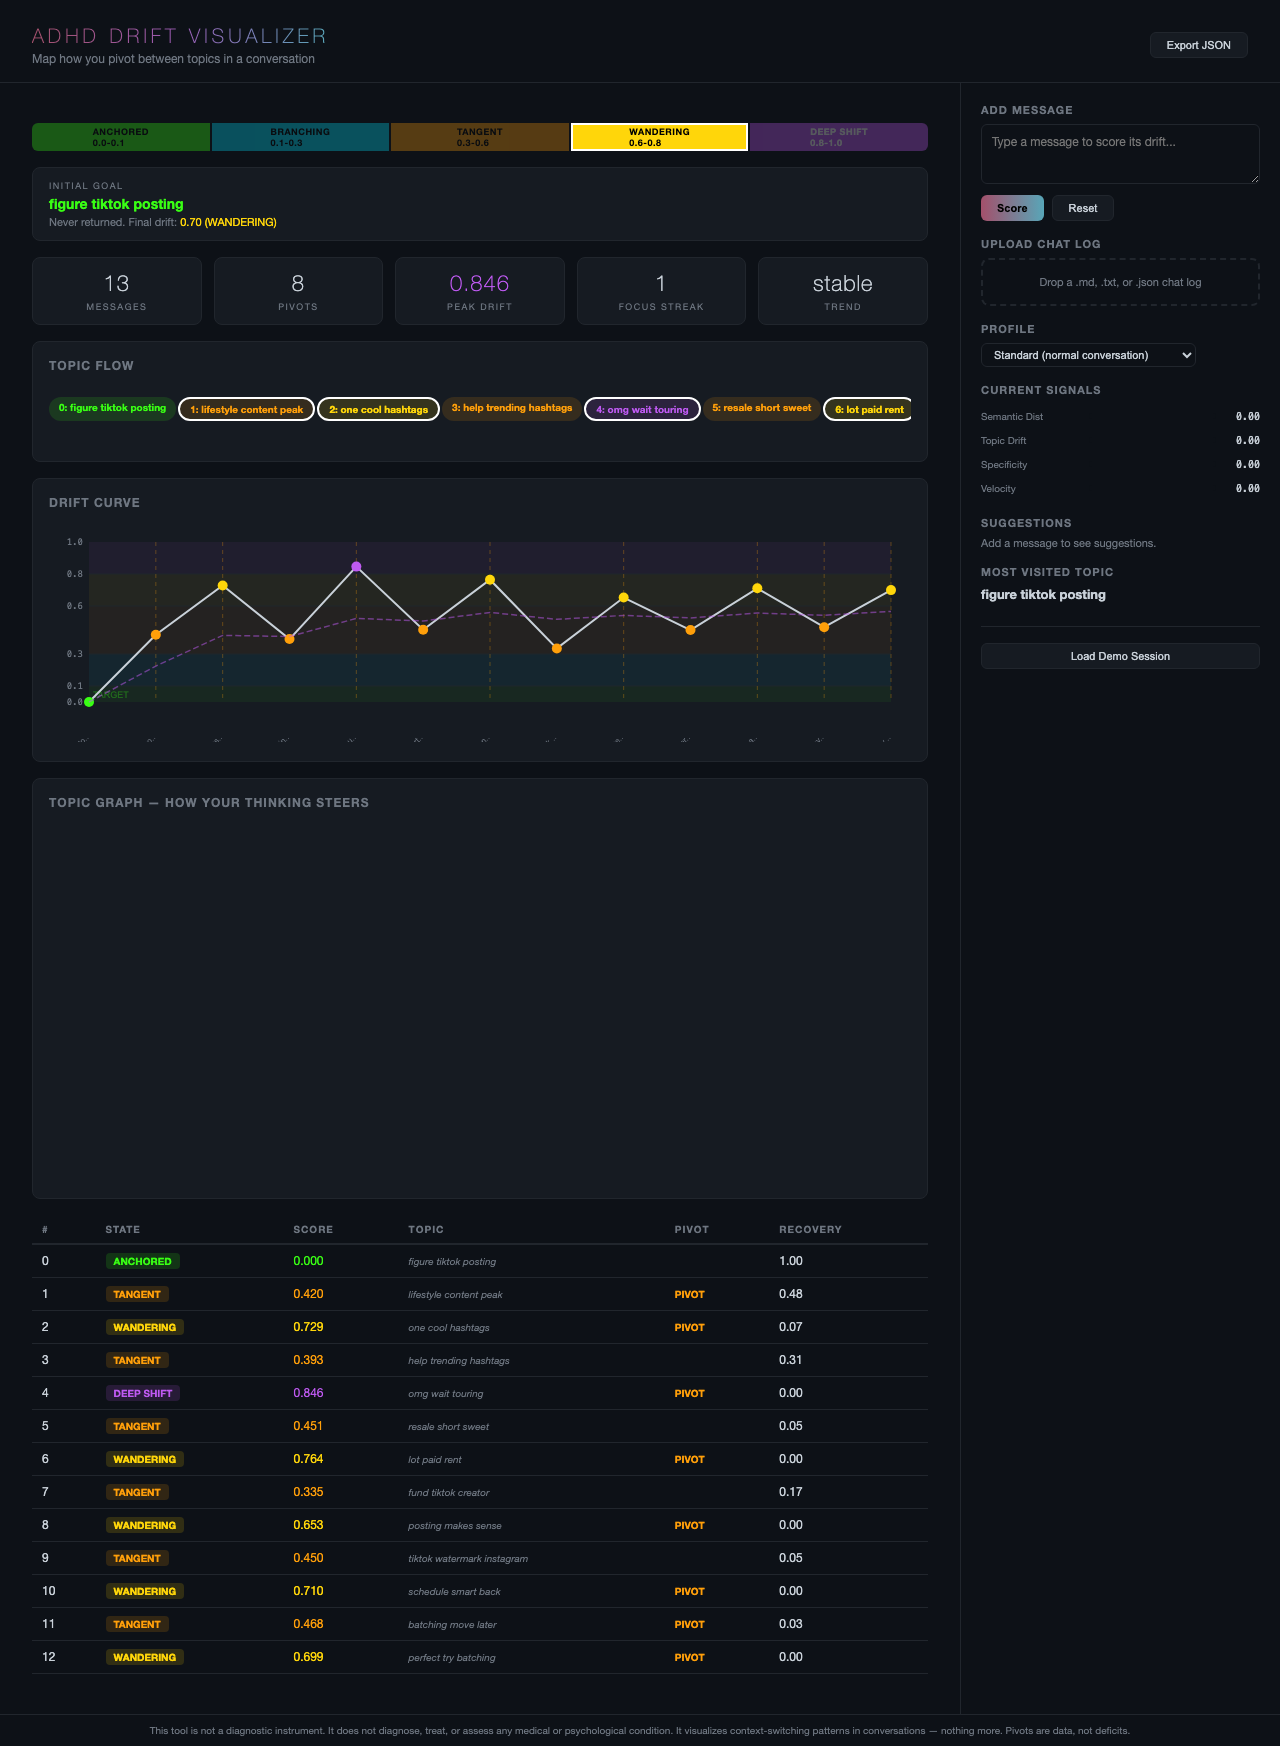
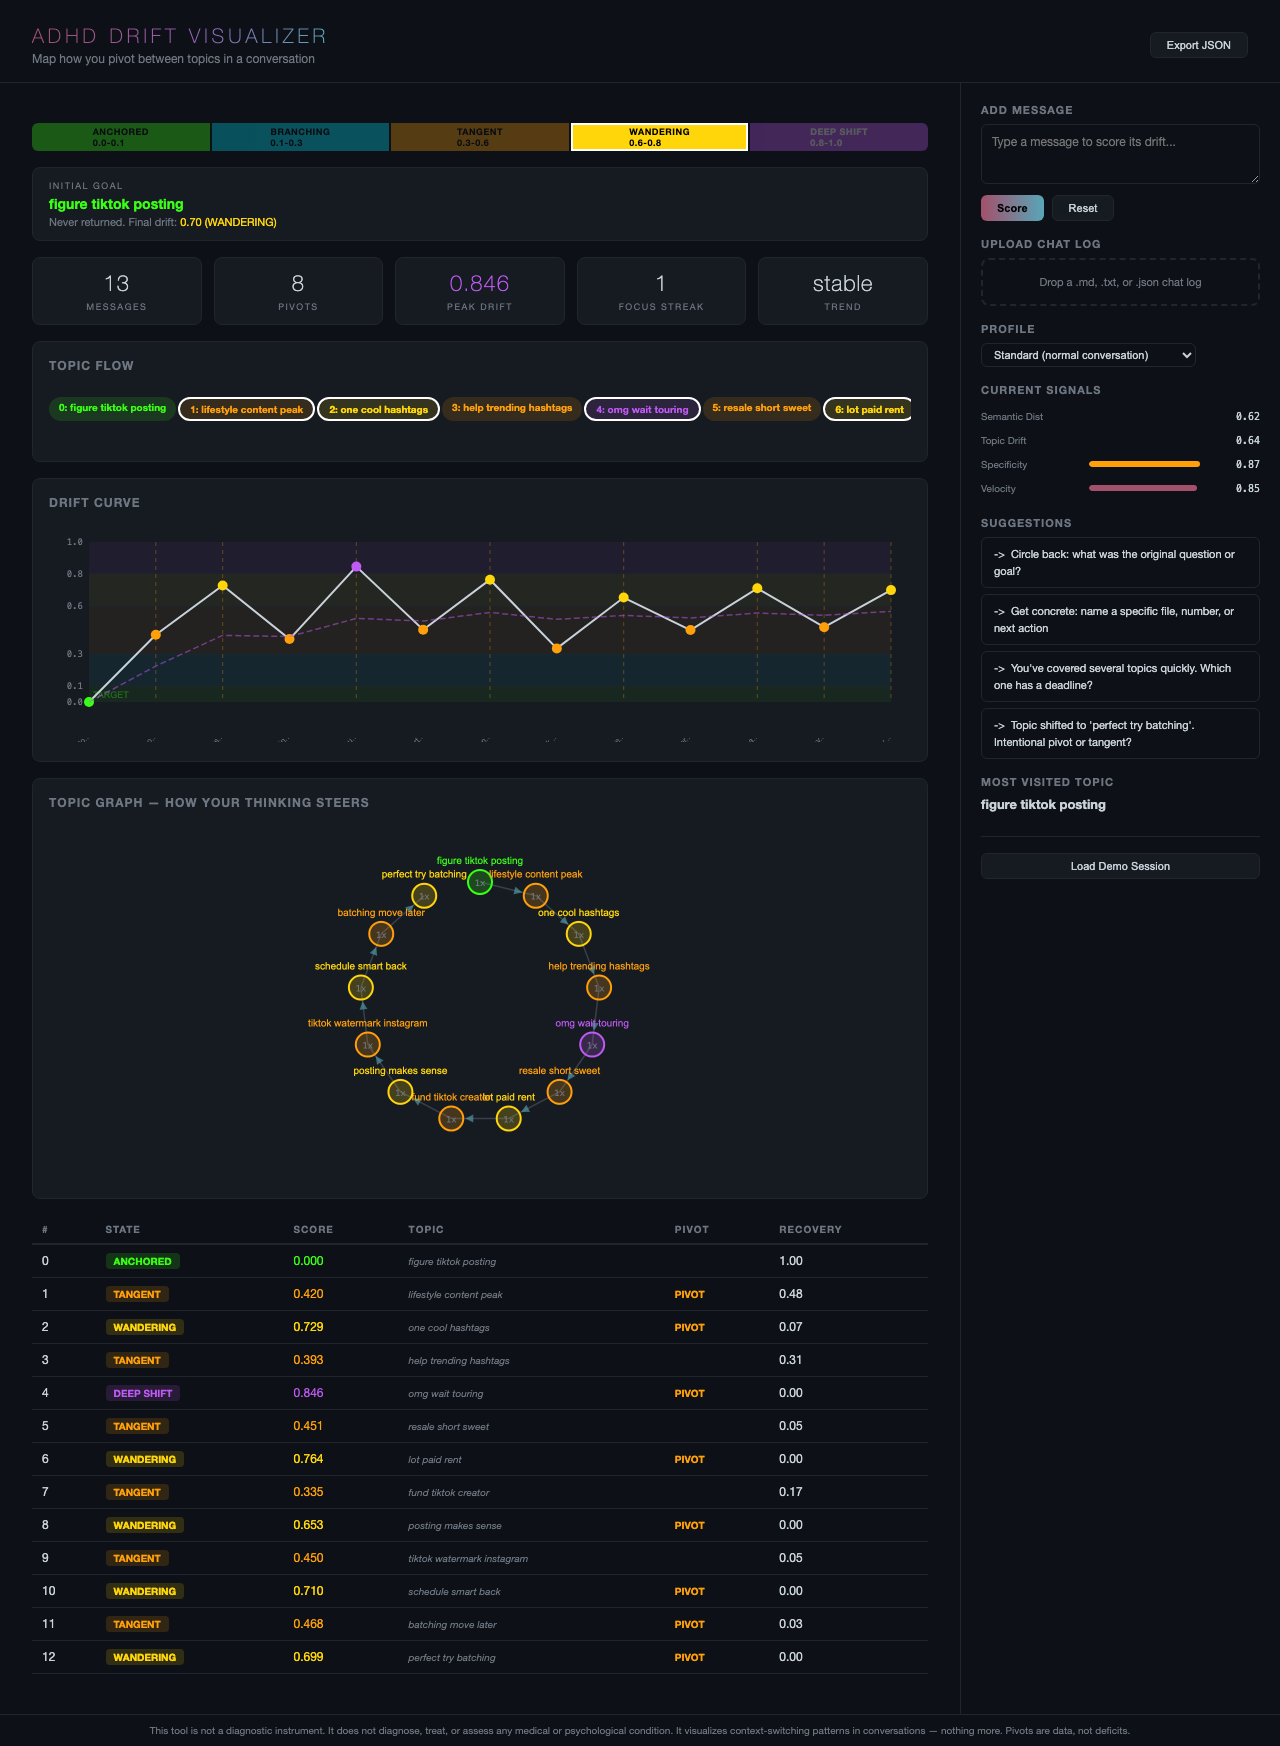
Add 2D canvas fallback for topic graph when WebGL unavailable
WebGL 3D graph (Three.js) renders in real browsers. For environments
without WebGL (headless, sandboxed), falls back to a 2D canvas
force-layout with directional arrows, visit counts, and color coding.

Changed region(s): [[0.75, 0.3093, 0.9375, 0.4639], [0.25, 0.4948, 0.5, 0.6495], [0.875, 0.2474, 0.9375, 0.2784]]

diff --git a/ui/dashboard.html b/ui/dashboard.html
@@ -664,36 +664,120 @@ function buildTopicGraph() {
     container.innerHTML = '';
   }
 
-  // Build 3D force graph
-  topicGraph = ForceGraph3D()(container)
-    .backgroundColor('#0d1117')
-    .width(container.clientWidth)
-    .height(360)
-    .graphData({ nodes, links })
-    // Nodes
-    .nodeLabel(n => `<div style="background:#161b22;padding:4px 8px;border-radius:4px;border:1px solid #21262d;font-size:11px;color:#c9d1d9;font-family:sans-serif;"><strong>${n.name}</strong><br>Visits: ${n.val}<br>Peak: ${CLASS_NAMES[n.classification] || n.classification}</div>`)
-    .nodeColor(n => n.color)
-    .nodeVal(n => n.val * 3)
-    .nodeOpacity(0.9)
-    // Links
-    .linkWidth(l => Math.max(1, l.value * 1.5))
-    .linkColor(() => 'rgba(110, 118, 129, 0.4)')
-    .linkDirectionalArrowLength(4)
-    .linkDirectionalArrowRelPos(1)
-    .linkDirectionalParticles(l => l.value)
-    .linkDirectionalParticleWidth(2)
-    .linkDirectionalParticleColor(() => '#58a6b8')
-    // Camera
-    .cameraPosition({ z: 200 })
-    // Node text
-    .nodeThreeObjectExtend(true)
-    .nodeThreeObject(node => {
-      const sprite = new SpriteText(node.name);
-      sprite.color = node.color;
-      sprite.textHeight = 4;
-      sprite.position.y = 8;
-      return sprite;
-    });
+  // Try 3D (WebGL), fall back to 2D canvas
+  try {
+    const testCanvas = document.createElement('canvas');
+    const gl = testCanvas.getContext('webgl2') || testCanvas.getContext('webgl');
+    if (!gl) throw new Error('No WebGL');
+
+    topicGraph = ForceGraph3D()(container)
+      .backgroundColor('#0d1117')
+      .width(container.clientWidth)
+      .height(360)
+      .graphData({ nodes, links })
+      .nodeLabel(n => `<div style="background:#161b22;padding:4px 8px;border-radius:4px;border:1px solid #21262d;font-size:11px;color:#c9d1d9;font-family:sans-serif;"><strong>${n.name}</strong><br>Visits: ${n.val}<br>Peak: ${CLASS_NAMES[n.classification] || n.classification}</div>`)
+      .nodeColor(n => n.color)
+      .nodeVal(n => n.val * 3)
+      .nodeOpacity(0.9)
+      .linkWidth(l => Math.max(1, l.value * 1.5))
+      .linkColor(() => 'rgba(110, 118, 129, 0.4)')
+      .linkDirectionalArrowLength(4)
+      .linkDirectionalArrowRelPos(1)
+      .linkDirectionalParticles(l => l.value)
+      .linkDirectionalParticleWidth(2)
+      .linkDirectionalParticleColor(() => '#58a6b8')
+      .cameraPosition({ z: 200 })
+      .nodeThreeObjectExtend(true)
+      .nodeThreeObject(node => {
+        const sprite = new SpriteText(node.name);
+        sprite.color = node.color;
+        sprite.textHeight = 4;
+        sprite.position.y = 8;
+        return sprite;
+      });
+  } catch (e) {
+    // 2D canvas fallback
+    draw2DGraph(container, nodes, links);
+  }
+}
+
+function draw2DGraph(container, nodes, links) {
+  container.innerHTML = '';
+  const canvas = document.createElement('canvas');
+  canvas.width = container.clientWidth * 2;
+  canvas.height = 360 * 2;
+  canvas.style.width = '100%';
+  canvas.style.height = '360px';
+  container.appendChild(canvas);
+  const ctx = canvas.getContext('2d');
+  ctx.scale(2, 2);
+  const W = container.clientWidth;
+  const H = 360;
+
+  // Simple force layout: place nodes in a circle, then nudge
+  const cx = W / 2, cy = H / 2, radius = Math.min(cx, cy) - 60;
+  nodes.forEach((n, i) => {
+    const angle = (i / nodes.length) * Math.PI * 2 - Math.PI / 2;
+    n.x = cx + Math.cos(angle) * radius;
+    n.y = cy + Math.sin(angle) * radius;
+  });
+
+  const nodeMap = {};
+  nodes.forEach(n => { nodeMap[n.id] = n; });
+
+  ctx.clearRect(0, 0, W, H);
+
+  // Draw edges
+  links.forEach(l => {
+    const src = nodeMap[l.source] || nodeMap[l.source.id];
+    const tgt = nodeMap[l.target] || nodeMap[l.target.id];
+    if (!src || !tgt) return;
+
+    ctx.beginPath();
+    ctx.moveTo(src.x, src.y);
+    ctx.lineTo(tgt.x, tgt.y);
+    ctx.strokeStyle = 'rgba(110, 118, 129, 0.4)';
+    ctx.lineWidth = Math.max(1, l.value * 1.5);
+    ctx.stroke();
+
+    // Arrow
+    const dx = tgt.x - src.x, dy = tgt.y - src.y;
+    const len = Math.sqrt(dx * dx + dy * dy);
+    if (len < 1) return;
+    const ux = dx / len, uy = dy / len;
+    const nodeR = Math.sqrt(tgt.val || 1) * 6 + 8;
+    const ax = tgt.x - ux * nodeR, ay = tgt.y - uy * nodeR;
+    ctx.beginPath();
+    ctx.moveTo(ax, ay);
+    ctx.lineTo(ax - ux * 8 + uy * 4, ay - uy * 8 - ux * 4);
+    ctx.lineTo(ax - ux * 8 - uy * 4, ay - uy * 8 + ux * 4);
+    ctx.closePath();
+    ctx.fillStyle = 'rgba(88, 166, 184, 0.6)';
+    ctx.fill();
+  });
+
+  // Draw nodes
+  nodes.forEach(n => {
+    const r = Math.sqrt(n.val || 1) * 6 + 6;
+    ctx.beginPath();
+    ctx.arc(n.x, n.y, r, 0, Math.PI * 2);
+    ctx.fillStyle = n.color + '33';
+    ctx.fill();
+    ctx.strokeStyle = n.color;
+    ctx.lineWidth = 2;
+    ctx.stroke();
+
+    // Label
+    ctx.fillStyle = n.color;
+    ctx.font = '10px sans-serif';
+    ctx.textAlign = 'center';
+    ctx.fillText(n.name, n.x, n.y - r - 6);
+
+    // Visit count
+    ctx.fillStyle = '#6e7681';
+    ctx.font = '9px monospace';
+    ctx.fillText(n.val + 'x', n.x, n.y + 4);
+  });
 }
 
 window.addEventListener('resize', () => {
